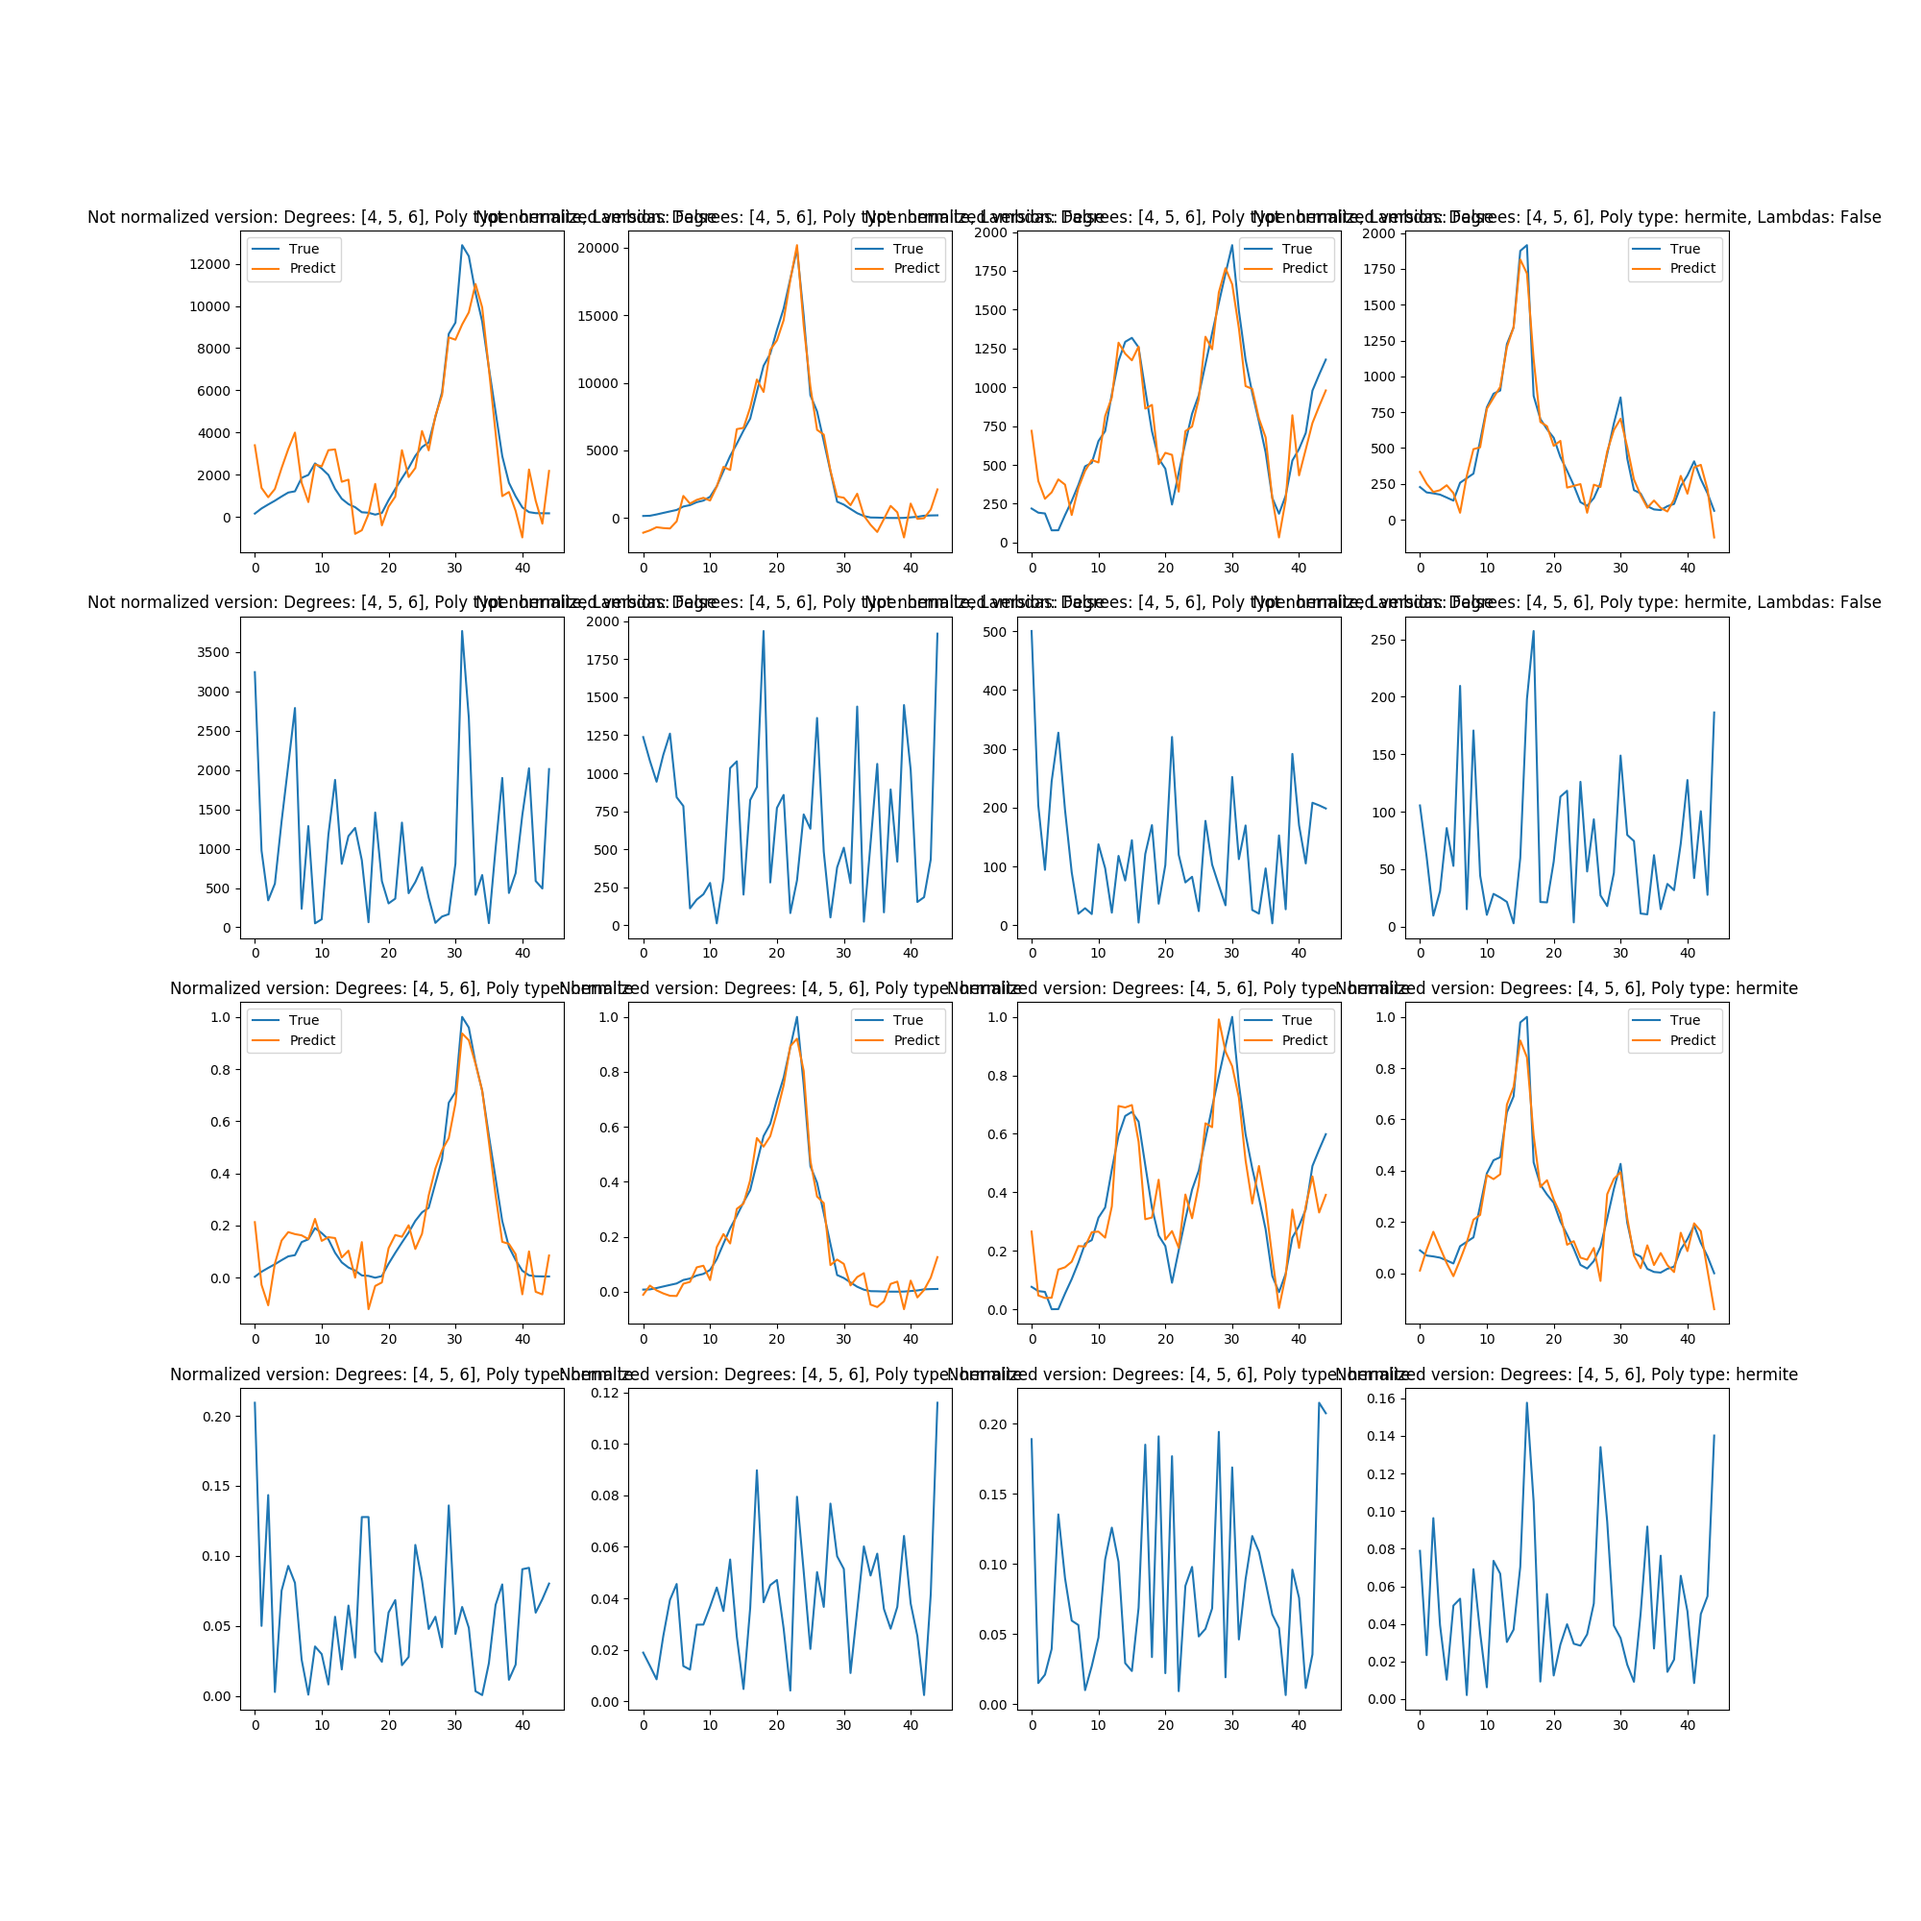
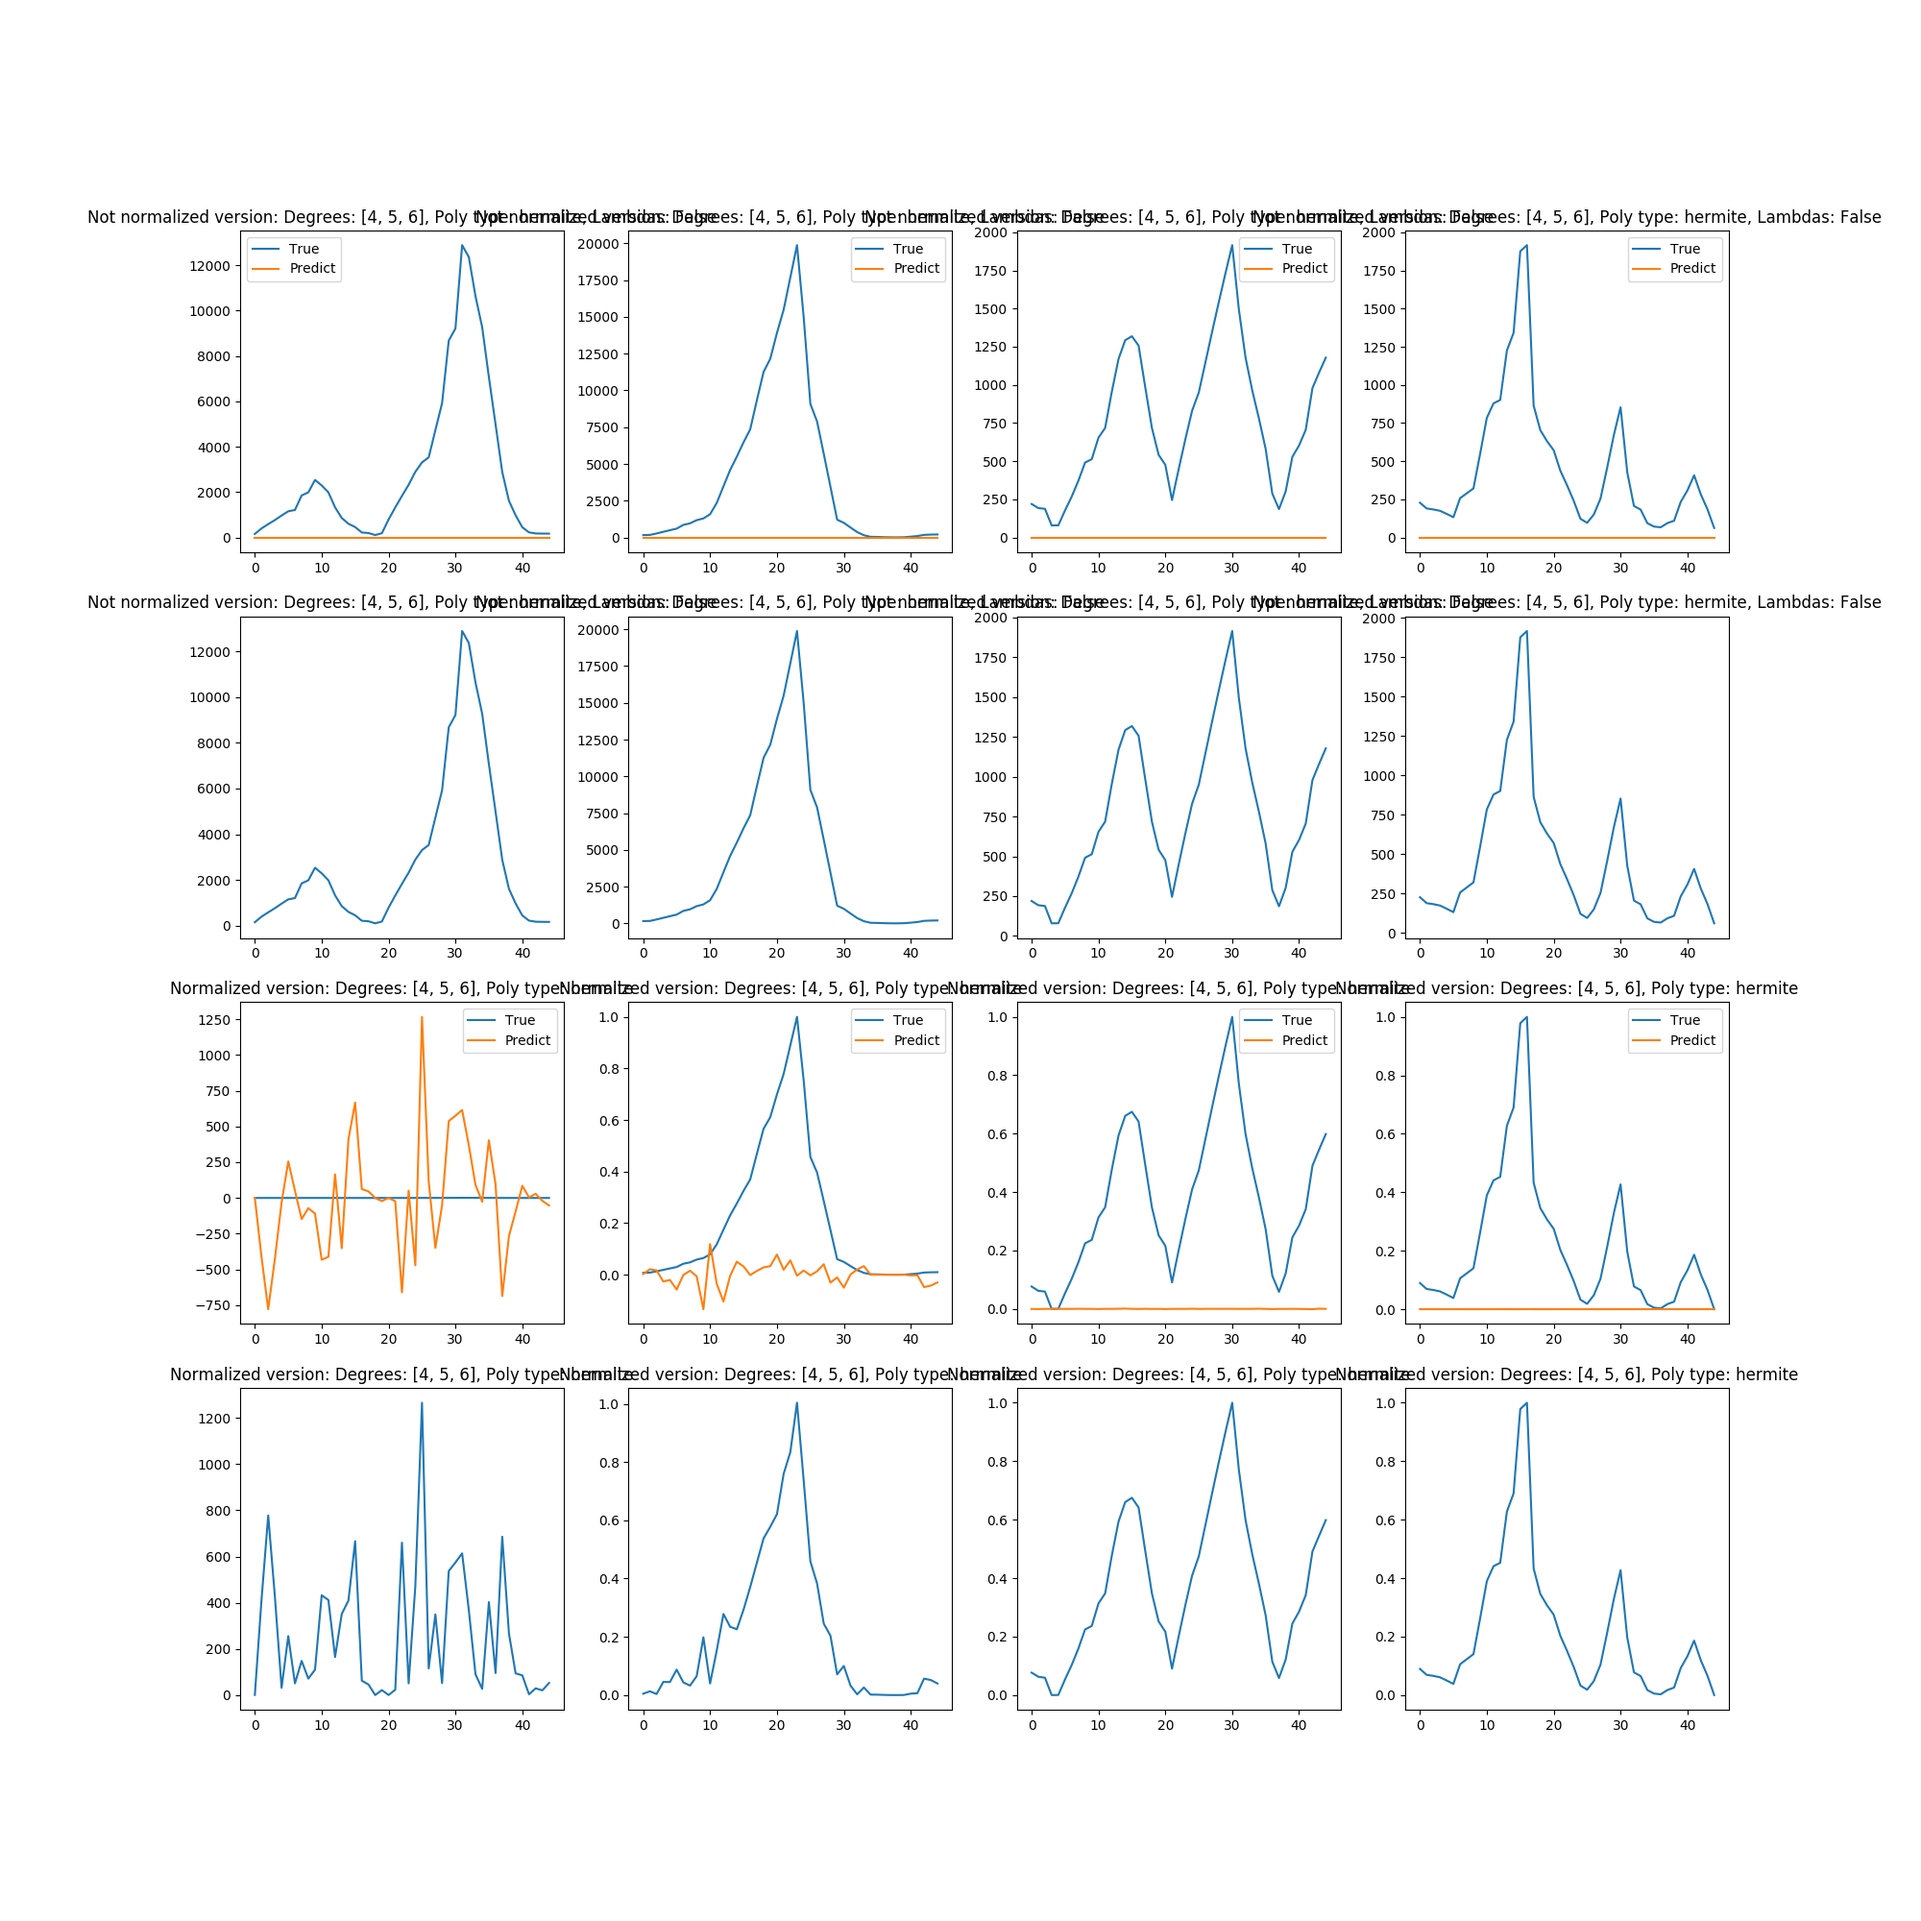
refactor coordinate descent and conjucate gradients, but with low accuracy, start to testing

diff --git a/optimization_methods.py b/optimization_methods.py
@@ -363,13 +363,36 @@ def conjugate_gradient_method(A, b, eps, maxiterations=100):
             print("There is a problem with minimization.")
     return np.matrix(xi1)
 
+def conjucate_grads(A, b, x=None):
+    n = len(b)
+    if isinstance(x, type(None)):
+        x = np.ones(n)
+    r = np.dot(A, x) - b
+    p = - r
+    r_k_norm = np.dot(r, r)
+    for i in range(2*n):
+        Ap = np.dot(A, p)
+        alpha = r_k_norm / np.dot(p, Ap)
+        x += alpha * p
+        r += alpha * Ap
+        r_kplus1_norm = np.dot(r, r)
+        beta = r_kplus1_norm / r_k_norm
+        r_k_norm = r_kplus1_norm
+        if r_kplus1_norm < 1e-5:
+            print('Itr:', i)
+            break
+        p = beta * p - r
+    return x
+
 
 def coordinate_descent(A, b, eps, maxIterations = 100):
     A = np.array(A)
     N = A.shape[0]
-    x = [0 for i in range(N)]
+    x = b #[0 for i in range(N)]
     xprev = [0.0 for i in range(N)]
-    for i in range(maxIterations):
+    norm = N
+    it = 0
+    while norm > eps or it < maxIterations:
         for j in range(N):
             xprev[j] = x[j]
         for j in range(N):
@@ -386,6 +409,50 @@ def coordinate_descent(A, b, eps, maxIterations = 100):
         if oldnorm == 0.0:
             oldnorm = 1.0
         norm = diff1norm / oldnorm
-        if (norm < eps) and i != 0:
-            return x
+        it+=1
+    return x
 
+
+def predict_output(feature_matrix, weights):
+    # assume feature_matrix is a numpy matrix containing the features as columns and weights is a corresponding numpy array
+    # create the predictions vector by using np.dot()
+    predictions = np.dot(feature_matrix,weights)
+    return(predictions)
+
+def lasso_coordinate_descent_step(num_features, feature_matrix, output, weights, l1_penalty):
+    # compute prediction
+    prediction = predict_output(feature_matrix, weights)
+    #z_i= (feature_matrix*feature_matrix).sum()
+
+    for i in range(num_features+1):
+    # compute ro[i] = SUM[ [feature_i]*(output - prediction + weight[i]*[feature_i]) ]
+        ro_i = (feature_matrix[:,i]*(output - prediction+weights[i]*feature_matrix[:,i])).sum()
+        if i == 0: # intercept -- do not regularize
+            new_weight_i = ro_i
+        elif ro_i < -l1_penalty/2.:
+            new_weight_i = (ro_i +(l1_penalty/2))
+        elif ro_i > l1_penalty/2.:
+            new_weight_i = (ro_i -(l1_penalty/2))
+        else:
+            new_weight_i = 0.
+    return new_weight_i
+
+
+def lasso_cyclical_coordinate_descent(feature_matrix, output, initial_weights,
+                                      l1_penalty, tolerance):
+    condition = True
+    max_change=0
+    while (condition == True):
+        max_change = 0
+        for i in range(len(initial_weights)):
+            #max_change=0
+            old_weight_i= initial_weights[i]
+            initial_weights[i] =lasso_coordinate_descent_step(i,
+                                                      feature_matrix, output,
+                                                      initial_weights, l1_penalty)
+            coordinate_change = abs(old_weight_i - initial_weights[i])
+            if coordinate_change > max_change:
+                max_change = coordinate_change
+        if (coordinate_change < tolerance):
+            condition = False
+    return initial_weights

diff --git a/task_solution.py b/task_solution.py
@@ -6,6 +6,7 @@ import itertools
 import numpy as np
 from custom_exceptions import *
 from scipy.sparse.linalg import cg
+from sklearn.linear_model import Lasso, Ridge, LinearRegression
 
 
 class Solve(object):
@@ -46,7 +47,7 @@ class Solve(object):
         elif self.solving_method == 'conjucate':
             return cg(np.dot(A, A.T), b, tol=self.eps)[0] #conjugate_gradient_method(A, b, self.eps)
         elif self.solving_method == 'coordDesc':
-            return coordinate_descent(A, b, self.eps)
+            return Lasso().fit(A, b).coef_ #coordinate_descent(A, b, self.eps) #Ridge().fit(A, b).coef_
         else:
             raise MethodNotFilledException
 
@@ -125,7 +126,13 @@ class Solve(object):
                 psi = [[(A.T * lambdas.loc[j, 'lambda_{}'.format(i + 1)][0]).T for i in range(len(self.deg) - 1)] for j in
                        range(self.deg[-1])]
         else:
-            psi = None
+            if self.splitted_lambdas:
+                psi = [[A.loc[:, [el for el in A.columns if el.find('X{}'.format(i + 1)) != -1]
+                        ] * lambdas.loc[j, 'lambda_{}'.format(i + 1)][0] for i in range(len(self.deg) - 1)] for j in
+                       range(self.deg[-1])]
+            else:
+                psi = [[A * lambdas.loc[j, 'lambda_{}'.format(i + 1)][0] for i in range(len(self.deg) - 1)] for j in
+                       range(self.deg[-1])]
         return psi
 
     def _get_A1(self, psi, y):
@@ -144,13 +151,21 @@ class Solve(object):
                 fi = np.array([[(psi[i][j].T * a1[i][j]).T for j in range(len(self.deg) - 1)] for i in range(self.deg[-1])])
             else:
                 fi = [[(psi[i][j].T * a1[i][j]).T for j in range(len(self.deg) - 1)] for i in range(self.deg[-1])]
+        else:
+            if self.splitted_lambdas:
+                fi = np.array([[psi[i][j] * a1[i][j] for j in range(len(self.deg) - 1)] for i in range(self.deg[-1])])
+            else:
+                fi = [[psi[i][j] * a1[i][j] for j in range(len(self.deg) - 1)] for i in range(self.deg[-1])]
         fi = [reduce(lambda x, y: pd.concat([x, y], axis=1), fi[i]) for i in range(self.deg[-1])]
         return fi
 
     def _get_coefs(self, fi, y):
         y = pd.DataFrame(y)
-        return [self._minimize_equation(np.dot(fi[i].T, fi[i]),
+        if self.solving_method == 'conjucate':
+            return [self._minimize_equation(np.dot(fi[i].T, fi[i]),
                                         np.dot(fi[i].T, y.iloc[:, i])) for i in range(self.deg[-1])]
+        else:
+            return [self._minimize_equation(fi[i], y.iloc[:, i]) for i in range(self.deg[-1])]
 
     # TODO Fitness function for normalize version
     def _get_fitness_function(self, fi, y, coefs):

diff --git a/basis_generators.py b/basis_generators.py
@@ -14,21 +14,22 @@ class BasicBasisGenerator:
             return pm([-2, 4]) * self.basis_smoothed_chebyshev(degree - 1) - self.basis_smoothed_chebyshev(degree - 2)
 
     def basis_smoothed_legendre(self, degree):
-        if not degree:
+        n = degree - 1
+        if not degree or degree == 0:
             return pm([1])
         elif degree == 1:
-            return pm([-1, 2])
+            return pm([0, 1])
         else:
-            return (pm([-2 * degree - 1, 4 * degree + 2]) * self.basis_smoothed_legendre(degree - 1) -
-                    degree * self.basis_smoothed_legendre(degree - 2)) / (degree + 1)
+            return pm([(2 * n + 1)/(n + 1)]) * pm([0,1]) * self.basis_smoothed_legendre(n) - (n/(n+1)) * self.basis_smoothed_legendre(n - 1)
 
     def basis_laguerre(self, degree):
-        if not degree:
+        k = degree - 1
+        if not degree or degree == 0:
             return pm([1])
         elif degree == 1:
             return pm([1, -1])
         else:
-            return pm([2 * degree + 1, -1]) * self.basis_laguerre(degree - 1) - pow(degree, 2) * self.basis_laguerre(degree - 2)
+            return (1/(k+1)) * (pm([2 * k + 1, -1]) * self.basis_laguerre(k) - k*self.basis_laguerre(k-1))
 
     def basis_hermite(self, degree):
         if not degree:
